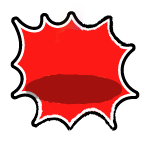
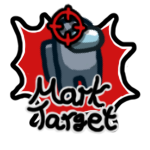
Ninja progress: preliminary version for testing. Everything "should (tm)" be working.

diff --git a/TheOtherRoles/Buttons.cs b/TheOtherRoles/Buttons.cs
@@ -1302,7 +1302,7 @@ namespace TheOtherRoles
                 }
             );
 
-            // Witch Spell button
+            // Ninja mark and assassinate button 
             ninjaMarkButton = new CustomButton(
                 () => {
                     if (Ninja.ninjaMarked != null)
@@ -1311,27 +1311,47 @@ namespace TheOtherRoles
                         MurderAttemptResult attempt = Helpers.checkMuderAttempt(Ninja.ninja, Ninja.ninjaMarked);
                         if (attempt == MurderAttemptResult.PerformKill)
                         {
-                            MessageWriter writer = AmongUsClient.Instance.StartRpcImmediately(PlayerControl.LocalPlayer.NetId, (byte)CustomRPC.SetFutureSpelled, Hazel.SendOption.Reliable, -1);
-                            writer.Write(Witch.currentTarget.PlayerId);
-                            AmongUsClient.Instance.FinishRpcImmediately(writer);
-                            RPCProcedure.setFutureSpelled(Witch.currentTarget.PlayerId);
+                            // Create first trace before killing
+                            var pos = PlayerControl.LocalPlayer.transform.position;
+                            byte[] buff = new byte[sizeof(float) * 2];
+                            Buffer.BlockCopy(BitConverter.GetBytes(pos.x), 0, buff, 0 * sizeof(float), sizeof(float));
+                            Buffer.BlockCopy(BitConverter.GetBytes(pos.y), 0, buff, 1 * sizeof(float), sizeof(float));
+
+                            MessageWriter writer = AmongUsClient.Instance.StartRpc(PlayerControl.LocalPlayer.NetId, (byte)CustomRPC.PlaceNinjaTrace, Hazel.SendOption.Reliable);
+                            writer.WriteBytesAndSize(buff);
+                            writer.EndMessage();
+                            RPCProcedure.placeNinjaTrace(buff);
+                            
+                            // Perform Kill
+                            MessageWriter writer2 = AmongUsClient.Instance.StartRpcImmediately(PlayerControl.LocalPlayer.NetId, (byte)CustomRPC.UncheckedMurderPlayer, Hazel.SendOption.Reliable, -1);
+                            writer2.Write(PlayerControl.LocalPlayer.PlayerId);
+                            writer2.Write(Ninja.ninjaMarked.PlayerId);
+                            writer2.Write(byte.MaxValue);
+                            AmongUsClient.Instance.FinishRpcImmediately(writer2);
+                            RPCProcedure.uncheckedMurderPlayer(PlayerControl.LocalPlayer.PlayerId, Ninja.ninjaMarked.PlayerId, byte.MaxValue);
+
+                            // Create Second trace after killing
+                            pos = Ninja.ninjaMarked.transform.position;
+                            buff = new byte[sizeof(float) * 2];
+                            Buffer.BlockCopy(BitConverter.GetBytes(pos.x), 0, buff, 0 * sizeof(float), sizeof(float));
+                            Buffer.BlockCopy(BitConverter.GetBytes(pos.y), 0, buff, 1 * sizeof(float), sizeof(float));
+
+                            MessageWriter writer3 = AmongUsClient.Instance.StartRpc(PlayerControl.LocalPlayer.NetId, (byte)CustomRPC.PlaceNinjaTrace, Hazel.SendOption.Reliable);
+                            writer3.WriteBytesAndSize(buff);
+                            writer3.EndMessage();
+                            RPCProcedure.placeNinjaTrace(buff);
                         }
 
                         if (attempt == MurderAttemptResult.BlankKill || attempt == MurderAttemptResult.PerformKill)
                         {
-                            witchSpellButton.MaxTimer += Witch.cooldownAddition;
-                            witchSpellButton.Timer = witchSpellButton.MaxTimer;
-                            if (Witch.triggerBothCooldowns)
-                                Witch.witch.killTimer = PlayerControl.GameOptions.KillCooldown;
+                            ninjaMarkButton.Timer = ninjaMarkButton.MaxTimer;
+                            Ninja.ninja.killTimer = PlayerControl.GameOptions.KillCooldown;
                         }
                         else
                         {
-                            witchSpellButton.Timer = 0f;
+                            ninjaMarkButton.Timer = 0f;
                         }
-                        Witch.spellCastingTarget = null;
-                        // create trace
-
-
+                        Ninja.ninjaMarked = null;
                         return;
                     } 
                     if (Ninja.currentTarget != null)
@@ -1340,16 +1360,17 @@ namespace TheOtherRoles
                     }
                 },
                 () => { return Ninja.ninja != null && Ninja.ninja == PlayerControl.LocalPlayer && !PlayerControl.LocalPlayer.Data.IsDead; },
-                () => {
+                () => {  // CouldUse
                     if (ninjaMarkButton.isEffectActive && Ninja.markingTarget != Ninja.currentTarget)
                     {
                         Ninja.markingTarget = null;
                         ninjaMarkButton.Timer = 0f;
                         ninjaMarkButton.isEffectActive = false;
                     }
-                    return PlayerControl.LocalPlayer.CanMove && Ninja.currentTarget != null;
+                    ninjaMarkButton.Sprite = Ninja.ninjaMarked != null ? Ninja.getKillButtonSprite() : Ninja.getMarkButtonSprite(); 
+                    return PlayerControl.LocalPlayer.CanMove && Ninja.currentTarget != null || Ninja.ninjaMarked != null;
                 },
-                () => {
+                () => {  // on meeting ends
                     ninjaMarkButton.Timer = witchSpellButton.MaxTimer;
                     ninjaMarkButton.isEffectActive = false;
                     Ninja.markingTarget = null;
@@ -1361,10 +1382,10 @@ namespace TheOtherRoles
                 true,
                 Ninja.markingDuration,
                 () =>
-                {
+                {   // On effect ends
                     Ninja.ninjaMarked = Ninja.markingTarget;
-                }
-                    
+                    ninjaMarkButton.Timer = 5f; // Small cd to avoid accidental click
+                }                    
             );
 
 

diff --git a/TheOtherRoles/Patches/PlayerControlPatch.cs b/TheOtherRoles/Patches/PlayerControlPatch.cs
@@ -324,6 +324,36 @@ namespace TheOtherRoles.Patches {
             }
         }
 
+        static void ninjaUpdate()
+        {
+            if (Ninja.arrow?.arrow != null)
+            {
+                if (Ninja.ninja == null || Ninja.ninja != PlayerControl.LocalPlayer || !Ninja.knowsTargetLocation) {
+                    Ninja.arrow.arrow.SetActive(false);
+                    return;
+                }
+                if (Ninja.ninjaMarked != null && !PlayerControl.LocalPlayer.Data.IsDead)
+                {
+                    bool trackedOnMap = !Ninja.ninjaMarked.Data.IsDead;
+                    Vector3 position = Ninja.ninjaMarked.transform.position;
+                    if (!trackedOnMap)
+                    { // Check for dead body
+                        DeadBody body = UnityEngine.Object.FindObjectsOfType<DeadBody>().FirstOrDefault(b => b.ParentId == Ninja.ninjaMarked.PlayerId);
+                        if (body != null)
+                        {
+                            trackedOnMap = true;
+                            position = body.transform.position;
+                        }
+                    }
+                    Ninja.arrow.Update(position);
+                    Ninja.arrow.arrow.SetActive(trackedOnMap);
+                } else
+                {
+                    Ninja.arrow.arrow.SetActive(false);
+                }
+            }
+        }
+
         static void trackerUpdate() {
             // Handle player tracking
             if (Tracker.arrow?.arrow != null) {
@@ -753,6 +783,16 @@ namespace TheOtherRoles.Patches {
             setPlayerOutline(Witch.currentTarget, Witch.color);
         }
 
+        static void ninjaSetTarget()
+        {
+            if (Ninja.ninja == null || Ninja.ninja != PlayerControl.LocalPlayer) return;
+            List<PlayerControl> untargetables = new List<PlayerControl>();
+            if (Spy.spy != null) untargetables.Add(Spy.spy);
+            if (Mini.mini != null) untargetables.Add(Mini.mini);
+            Ninja.currentTarget = setTarget(onlyCrewmates: true, untargetablePlayers: untargetables);
+            setPlayerOutline(Ninja.currentTarget, Ninja.color);
+        }
+
 
         public static void Postfix(PlayerControl __instance) {
             if (AmongUsClient.Instance.GameState != InnerNet.InnerNetClient.GameStates.Started) return;
@@ -831,6 +871,11 @@ namespace TheOtherRoles.Patches {
                 pursuerSetTarget();
                 // Witch
                 witchSetTarget();
+                // Ninja
+                ninjaSetTarget();
+                NinjaTrace.UpdateAll();
+                ninjaUpdate();
+
                 hackerUpdate();
             } 
         }
@@ -960,6 +1005,10 @@ namespace TheOtherRoles.Patches {
             if (Witch.triggerBothCooldowns && Witch.witch != null && PlayerControl.LocalPlayer == Witch.witch && __instance == Witch.witch && HudManagerStartPatch.witchSpellButton != null) 
                 HudManagerStartPatch.witchSpellButton.Timer = HudManagerStartPatch.witchSpellButton.MaxTimer;
 
+            // Ninja Button Sync
+            if (Ninja.ninja != null && PlayerControl.LocalPlayer == Ninja.ninja && __instance == Ninja.ninja && HudManagerStartPatch.ninjaMarkButton != null)
+                HudManagerStartPatch.ninjaMarkButton.Timer = HudManagerStartPatch.ninjaMarkButton.MaxTimer;
+
             // Warlock Button Sync
             if (Warlock.warlock != null && PlayerControl.LocalPlayer == Warlock.warlock && __instance == Warlock.warlock && HudManagerStartPatch.warlockCurseButton != null) {
                 if(Warlock.warlock.killTimer > HudManagerStartPatch.warlockCurseButton.Timer) {
@@ -1044,7 +1093,7 @@ namespace TheOtherRoles.Patches {
 
     [HarmonyPatch(typeof(KillAnimation), nameof(KillAnimation.CoPerformKill))]
     class KillAnimationCoPerformKillPatch {
-        public static bool hideNextAnimation = true;
+        public static bool hideNextAnimation = false;
         public static void Prefix(KillAnimation __instance, [HarmonyArgument(0)]ref PlayerControl source, [HarmonyArgument(1)]ref PlayerControl target) {
             if (hideNextAnimation)
                 source = target;

diff --git a/TheOtherRoles/Objects/NinjaTrace.cs b/TheOtherRoles/Objects/NinjaTrace.cs
@@ -1,0 +1,50 @@
+using System;
+using System.Collections.Generic;
+using System.Collections;
+using UnityEngine;
+
+namespace TheOtherRoles.Objects {
+    class NinjaTrace {
+        public static List<NinjaTrace> traces = new List<NinjaTrace>();
+
+        public GameObject trace;
+        private float timeRemaining;
+        
+        private static Sprite TraceSprite;
+        public static Sprite getTraceSprite() {
+            if (TraceSprite) return TraceSprite;
+            TraceSprite = Helpers.loadSpriteFromResources("TheOtherRoles.Resources.NinjaTrace.png", 300f);
+            return TraceSprite;
+        }
+
+        public NinjaTrace(Vector2 p, float duration=1f) {
+            trace = new GameObject("NinjaTrace");
+            Vector3 position = new Vector3(p.x, p.y, PlayerControl.LocalPlayer.transform.localPosition.z + 0.001f); // just behind player
+            trace.transform.position = position;
+            trace.transform.localPosition = position;
+            
+            var traceRenderer = trace.AddComponent<SpriteRenderer>();
+            traceRenderer.sprite = getTraceSprite();
+
+            timeRemaining = duration;
+            
+            trace.SetActive(true);
+            traces.Add(this);
+        }
+
+        public static void clearTraces() {
+            traces = new List<NinjaTrace>();
+        }
+
+        public static void UpdateAll() {
+            foreach (NinjaTrace traceCurrent in traces)
+            {
+                traceCurrent.timeRemaining -= Time.fixedDeltaTime;
+                if (traceCurrent.timeRemaining < 0)
+                {
+                    traceCurrent.trace.SetActive(false);
+                }
+            }
+        }
+    }
+}

diff --git a/TheOtherRoles/TheOtherRoles.cs b/TheOtherRoles/TheOtherRoles.cs
@@ -1423,13 +1423,14 @@ namespace TheOtherRoles
         public static PlayerControl currentTarget;
         public static PlayerControl markingTarget;
         public static float cooldown = 30f;
-        public static float markingDuration = 2f;
+        public static float markingDuration = 1f;
         public static float traceTime = 1f;
         public static bool knowsTargetLocation = false;
         
 
         private static Sprite markButtonSprite;
         private static Sprite killButtonSprite;
+        public static Arrow arrow = new Arrow(Color.black);
         public static Sprite getMarkButtonSprite()
         {
             if (markButtonSprite) return markButtonSprite;
@@ -1440,7 +1441,7 @@ namespace TheOtherRoles
         public static Sprite getKillButtonSprite()
         {
             if (killButtonSprite) return killButtonSprite;
-            killButtonSprite = Helpers.loadSpriteFromResources("TheOtherRoles.Resources.NinjaKillButton.png", 225f);
+            killButtonSprite = Helpers.loadSpriteFromResources("TheOtherRoles.Resources.NinjaKillButton.png", 115f);
             return killButtonSprite;
         }
 
@@ -1451,6 +1452,10 @@ namespace TheOtherRoles
             cooldown = CustomOptionHolder.ninjaCooldown.getFloat();
             knowsTargetLocation = CustomOptionHolder.ninjaKnowsTargetLocation.getBool();
             traceTime = CustomOptionHolder.ninjaTraceTime.getFloat();
+
+            if (arrow?.arrow != null) UnityEngine.Object.Destroy(arrow.arrow);
+            arrow = new Arrow(Color.black);
+            if (arrow.arrow != null) arrow.arrow.SetActive(false);
         }
     }
 }

diff --git a/TheOtherRoles/RPC.cs b/TheOtherRoles/RPC.cs
@@ -100,6 +100,7 @@ namespace TheOtherRoles
         SetFutureShifted,
         SetFutureShielded,
         SetFutureSpelled,
+        PlaceNinjaTrace,
         PlaceJackInTheBox,
         LightsOut,
         PlaceCamera,
@@ -120,6 +121,7 @@ namespace TheOtherRoles
         public static void resetVariables() {
             Garlic.clearGarlics();
             JackInTheBox.clearJackInTheBoxes();
+            NinjaTrace.clearTraces();
             clearAndReloadMapOptions();
             clearAndReloadRoles();
             clearGameHistory();
@@ -669,6 +671,13 @@ namespace TheOtherRoles
             }
         }
 
+        public static void placeNinjaTrace(byte[] buff)
+        {
+            Vector3 position = Vector3.zero;
+            position.x = BitConverter.ToSingle(buff, 0 * sizeof(float));
+            position.y = BitConverter.ToSingle(buff, 1 * sizeof(float));
+            new NinjaTrace(position, Ninja.traceTime);
+        }
 
         public static void placeJackInTheBox(byte[] buff) {
             Vector3 position = Vector3.zero;
@@ -952,6 +961,9 @@ namespace TheOtherRoles
                     break;
                 case (byte)CustomRPC.SetFutureShielded:
                     RPCProcedure.setFutureShielded(reader.ReadByte());
+                    break;
+                case (byte)CustomRPC.PlaceNinjaTrace:
+                    RPCProcedure.placeNinjaTrace(reader.ReadBytesAndSize());
                     break;
                 case (byte)CustomRPC.PlaceJackInTheBox:
                     RPCProcedure.placeJackInTheBox(reader.ReadBytesAndSize());

diff --git a/TheOtherRoles/CustomOptionHolder.cs b/TheOtherRoles/CustomOptionHolder.cs
@@ -319,7 +319,7 @@ namespace TheOtherRoles {
             ninjaSpawnRate = CustomOption.Create(380, cs(Ninja.color, "Ninja"), rates, null, true);
             ninjaCooldown = CustomOption.Create(381, "Ninja Mark Cooldown", 30f, 10f, 120f, 5f, ninjaSpawnRate);
             ninjaKnowsTargetLocation = CustomOption.Create(382, "Ninja Knows Location Of Target", true, ninjaSpawnRate);
-            ninjaTraceTime = CustomOption.Create(383, "Trace Duration", 1f, 0f, 20f, 0.5f, ninjaSpawnRate);
+            ninjaTraceTime = CustomOption.Create(383, "Trace Duration", 5f, 1f, 20f, 0.5f, ninjaSpawnRate);
 
             miniSpawnRate = CustomOption.Create(180, cs(Mini.color, "Mini"), rates, null, true);
             miniGrowingUpDuration = CustomOption.Create(181, "Mini Growing Up Duration", 400f, 100f, 1500f, 100f, miniSpawnRate);

diff --git a/TheOtherRoles/Patches/UsablesPatch.cs b/TheOtherRoles/Patches/UsablesPatch.cs
@@ -147,6 +147,8 @@ namespace TheOtherRoles.Patches {
                         Mini.mini.SetKillTimer(PlayerControl.GameOptions.KillCooldown * (Mini.isGrownUp() ? 0.66f : 2f));
                     else if (PlayerControl.LocalPlayer == Witch.witch)
                         Witch.witch.killTimer = HudManagerStartPatch.witchSpellButton.Timer = HudManagerStartPatch.witchSpellButton.MaxTimer;
+                    else if (PlayerControl.LocalPlayer == Ninja.ninja)
+                        Ninja.ninja.killTimer = HudManagerStartPatch.ninjaMarkButton.Timer = HudManagerStartPatch.ninjaMarkButton.MaxTimer;
                 }
                 __instance.SetTarget(null);
             }
